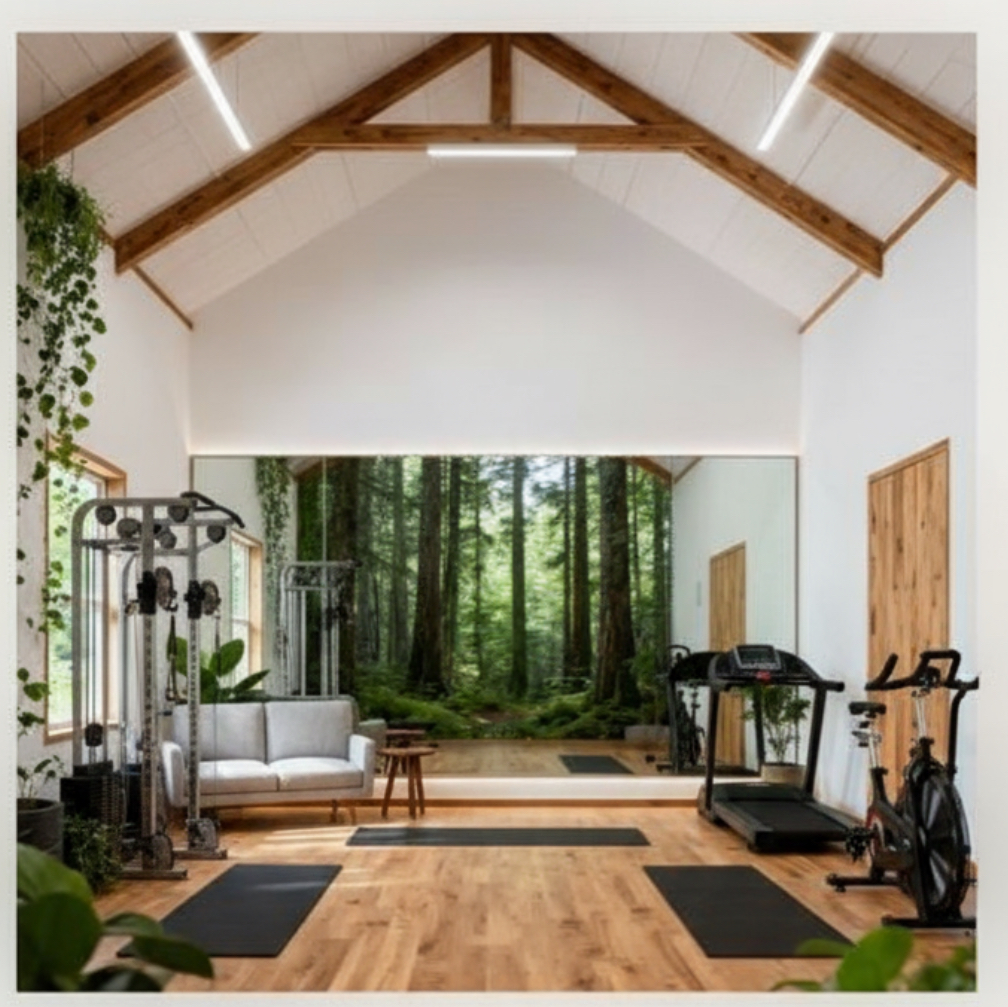
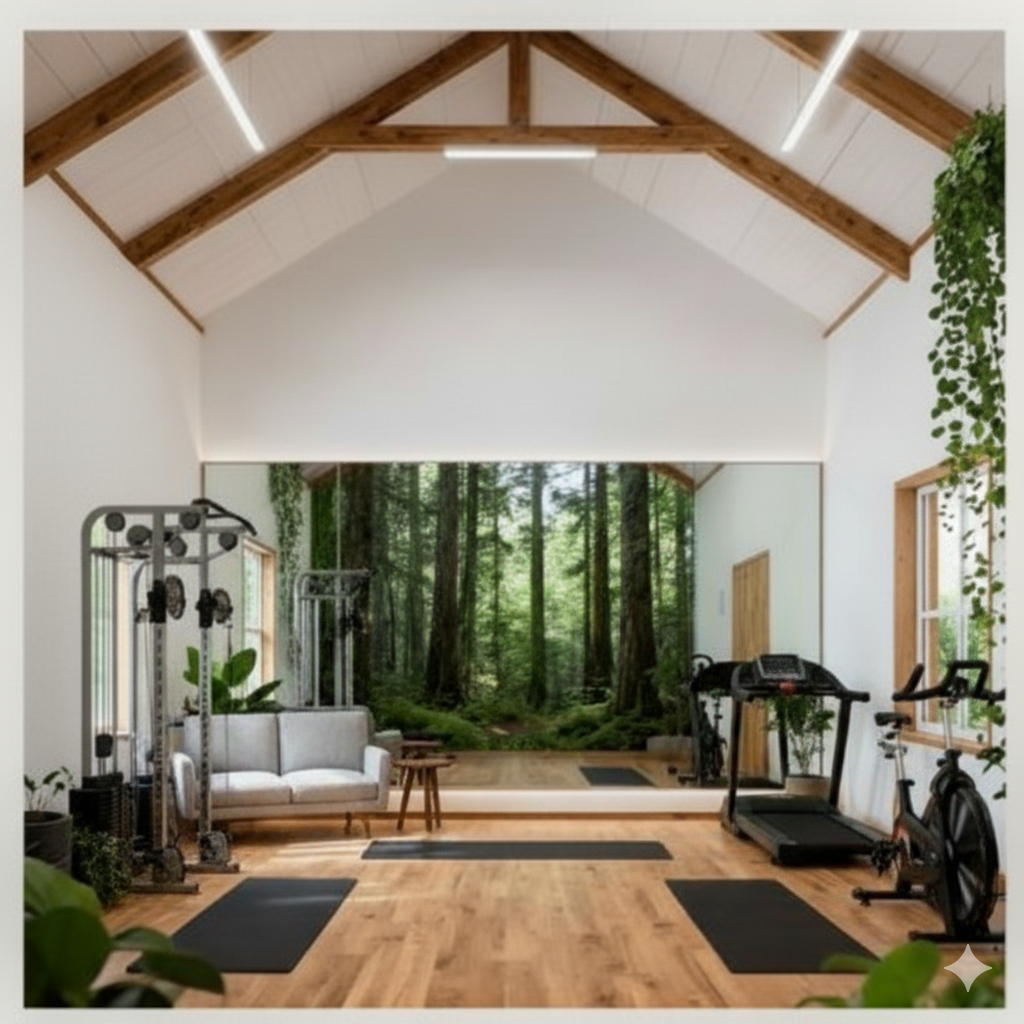
Dodanie sekcji Studio ze zdjęciem wnętrza

diff --git a/index.html b/index.html
@@ -343,6 +343,79 @@
         </div>
     </section>
 
+    <!-- STUDIO SECTION -->
+    <section id="studio" class="studio">
+        <div class="container">
+            <div class="section-header">
+                <h2>Twoje Studio Las</h2>
+                <p>Trening w wyjątkowym otoczeniu natury</p>
+            </div>
+            
+            <div class="studio-content">
+                <div class="studio-image-wrapper">
+                    <img src="img/studio-interior.jpg" 
+                         alt="Wnętrze Studio Las - sala treningowa z widokiem na las, sprzęt Life Fitness, naturalne materiały" 
+                         loading="lazy" 
+                         width="1200" 
+                         height="800" 
+                         class="studio-main-image">
+                </div>
+                
+                <div class="studio-description">
+                    <h3>Przestrzeń stworzona dla Twojej regeneracji</h3>
+                    
+                    <p>Studio Las to nie jest kolejna siłownia w bloku. To <strong>kameralne miejsce położone w sercu lasu</strong>, gdzie natura spotyka się z najwyższej klasy sprzętem treningowym.</p>
+                    
+                    <div class="studio-features">
+                        <div class="studio-feature">
+                            <i class="fas fa-tree"></i>
+                            <div>
+                                <h4>Otoczenie natury</h4>
+                                <p>Las zamiast betonowych ścian. Spokój i prywatność dla Twojej koncentracji.</p>
+                            </div>
+                        </div>
+                        
+                        <div class="studio-feature">
+                            <i class="fas fa-dumbbell"></i>
+                            <div>
+                                <h4>Profesjonalny sprzęt</h4>
+                                <p>Life Fitness, Tanita RD-545 i sprzęt stosowany w wojskowych ośrodkach treningowych.</p>
+                            </div>
+                        </div>
+                        
+                        <div class="studio-feature">
+                            <i class="fas fa-users-slash"></i>
+                            <div>
+                                <h4>Maksymalnie 3 osoby</h4>
+                                <p>Kameralna atmosfera. Żadnych kolejek, żadnych tłumów. Tylko Ty i Twój trening.</p>
+                            </div>
+                        </div>
+                        
+                        <div class="studio-feature">
+                            <i class="fas fa-leaf"></i>
+                            <div>
+                                <h4>Czyste powietrze</h4>
+                                <p>Wentylacja naturalna, rośliny, drewno. Trenujesz w środowisku sprzyjającym regeneracji.</p>
+                            </div>
+                        </div>
+                    </div>
+                    
+                    <p class="studio-cta-text">
+                        Chcesz zobaczyć studio na własne oczy? <strong>Umów się na darmową konsultację diagnostyczną.</strong>
+                    </p>
+                    
+                    <a href="https://wa.me/48503975998?text=Cześć%20Damian,%20chcę%20zobaczyć%20studio%20i%20umówić%20się%20na%20konsultację!" 
+                       class="btn btn-primary" 
+                       target="_blank">
+                        Zobacz studio osobiście
+                    </a>
+                </div>
+            </div>
+        </div>
+    </section>
+
+
+
     <!-- SPECJALIZACJE -->
     <section id="specializations" class="specializations">
         <div class="container">

diff --git a/css/style.css b/css/style.css
@@ -2408,3 +2408,174 @@ section {
     padding: 12px;
   }
 }
+
+
+/* ============================================
+   STUDIO SECTION
+   ============================================ */
+
+.studio {
+    padding: 80px 0;
+    background: linear-gradient(to bottom, #f8fdf8 0%, #ffffff 100%);
+}
+
+.studio-content {
+    display: grid;
+    grid-template-columns: 1fr;
+    gap: 50px;
+    margin-top: 40px;
+}
+
+.studio-image-wrapper {
+    width: 100%;
+    border-radius: 16px;
+    overflow: hidden;
+    box-shadow: 0 20px 60px rgba(45, 80, 22, 0.15);
+    transition: transform 0.3s ease, box-shadow 0.3s ease;
+}
+
+.studio-image-wrapper:hover {
+    transform: translateY(-5px);
+    box-shadow: 0 25px 70px rgba(45, 80, 22, 0.2);
+}
+
+.studio-main-image {
+    width: 100%;
+    height: auto;
+    display: block;
+    object-fit: cover;
+}
+
+.studio-description {
+    display: flex;
+    flex-direction: column;
+    gap: 25px;
+}
+
+.studio-description h3 {
+    font-size: 2rem;
+    color: var(--forest-dark);
+    margin-bottom: 10px;
+    line-height: 1.3;
+}
+
+.studio-description > p {
+    font-size: 1.1rem;
+    line-height: 1.8;
+    color: #444;
+}
+
+.studio-features {
+    display: grid;
+    grid-template-columns: 1fr;
+    gap: 25px;
+    margin: 30px 0;
+}
+
+.studio-feature {
+    display: flex;
+    gap: 20px;
+    align-items: flex-start;
+    padding: 20px;
+    background: #ffffff;
+    border-radius: 12px;
+    border-left: 4px solid var(--forest-green);
+    box-shadow: 0 4px 12px rgba(0, 0, 0, 0.05);
+    transition: all 0.3s ease;
+}
+
+.studio-feature:hover {
+    transform: translateX(5px);
+    box-shadow: 0 6px 20px rgba(45, 80, 22, 0.12);
+}
+
+.studio-feature i {
+    font-size: 2rem;
+    color: var(--forest-green);
+    min-width: 40px;
+    margin-top: 5px;
+}
+
+.studio-feature h4 {
+    font-size: 1.2rem;
+    color: var(--forest-dark);
+    margin-bottom: 8px;
+}
+
+.studio-feature p {
+    font-size: 0.95rem;
+    line-height: 1.6;
+    color: #666;
+    margin: 0;
+}
+
+.studio-cta-text {
+    font-size: 1.1rem;
+    color: #333;
+    margin-top: 20px;
+    padding: 20px;
+    background: #f0f9ff;
+    border-left: 4px solid #0066FF;
+    border-radius: 8px;
+}
+
+.studio-cta-text strong {
+    color: var(--forest-green);
+}
+
+/* Responsive - Desktop */
+@media (min-width: 992px) {
+    .studio-content {
+        grid-template-columns: 1fr 1fr;
+        align-items: start;
+    }
+    
+    .studio-features {
+        grid-template-columns: 1fr 1fr;
+    }
+}
+
+/* Responsive - Tablet */
+@media (max-width: 768px) {
+    .studio {
+        padding: 60px 0;
+    }
+    
+    .studio-description h3 {
+        font-size: 1.6rem;
+    }
+    
+    .studio-features {
+        gap: 20px;
+    }
+    
+    .studio-feature {
+        padding: 15px;
+    }
+}
+
+/* Responsive - Mobile */
+@media (max-width: 480px) {
+    .studio {
+        padding: 40px 0;
+    }
+    
+    .studio-description h3 {
+        font-size: 1.4rem;
+    }
+    
+    .studio-feature {
+        flex-direction: column;
+        gap: 12px;
+    }
+    
+    .studio-feature i {
+        font-size: 1.5rem;
+    }
+}
+
+
+
+
+
+
